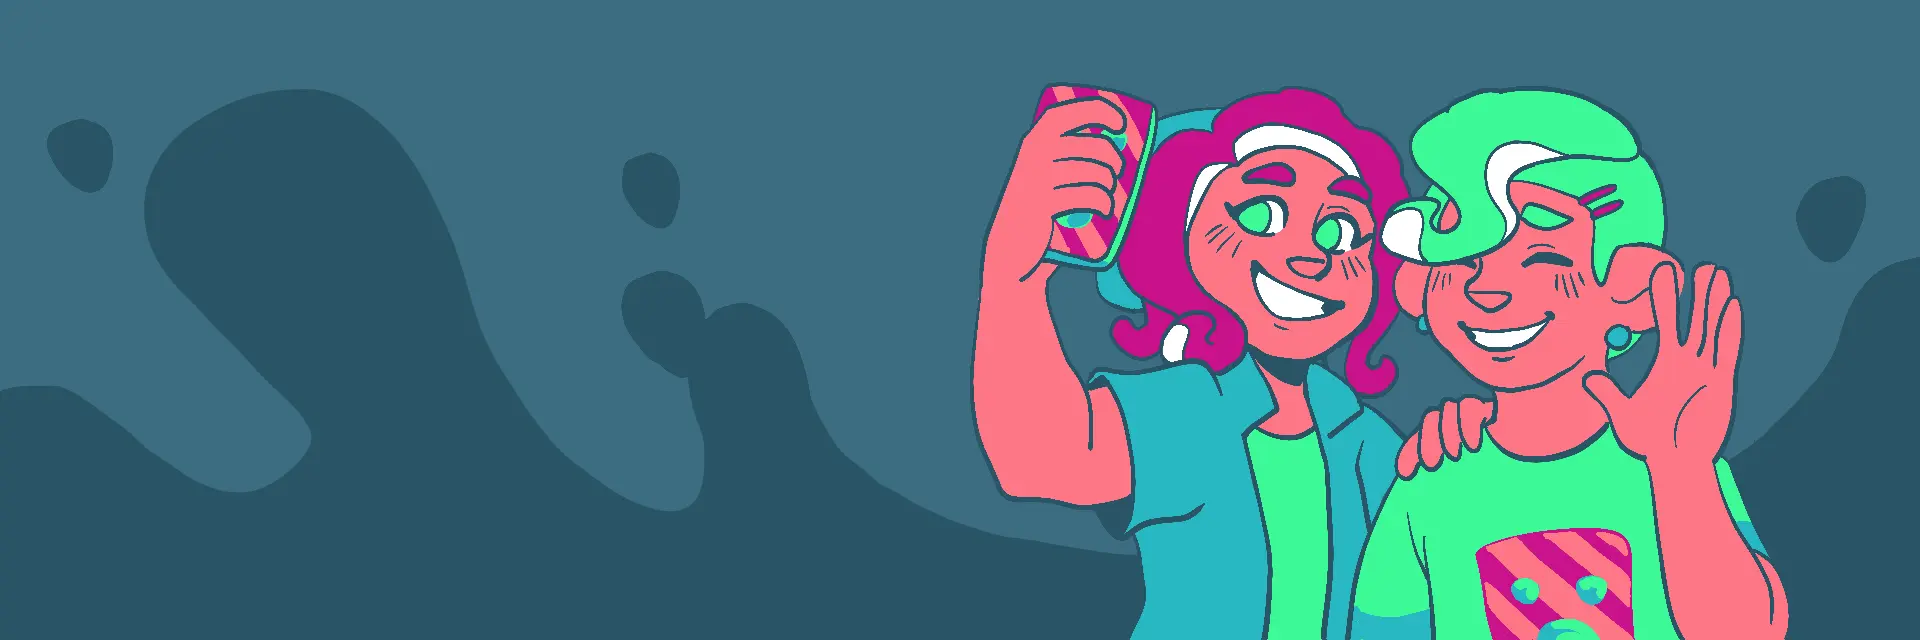
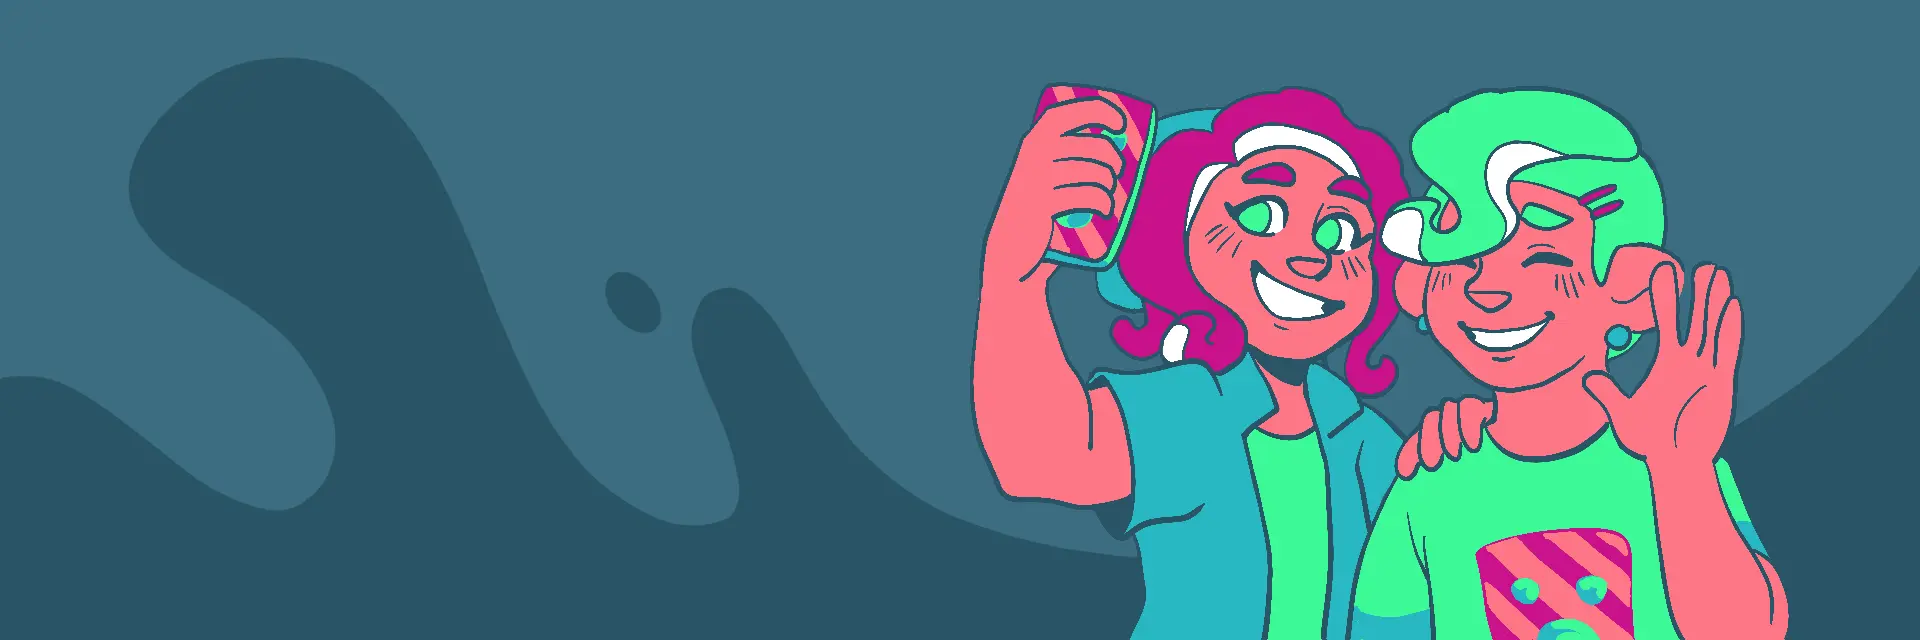
Complete idtga page

diff --git a/src/pages/idtga/index.js b/src/pages/idtga/index.js
@@ -6,7 +6,12 @@ import * as Collapsible from "@radix-ui/react-collapsible"
 import useTourney from "src/app/useTourney"
 import Layout from "src/components/Layout"
 import logo from "src/static/idtga.svg"
+import skater from "src/static/skater.webp"
+import promoInvite from "src/static/promo_invite.webp"
+import promoBlaster from "src/static/promo_blaster.webp"
+import promoFriends from "src/static/promo_friends.webp"
 import InfoMdx from "./info.mdx"
+import { AnimationOnScroll } from "react-animation-on-scroll"
 
 const Idtga = () => (
   <Layout helmet={{ title: "IDTGA" }}>
@@ -25,6 +30,46 @@ const Idtga = () => (
         <TourneyCard />
       </div>
     </div>
+    <div className="relative flex flex-col md:flex-row">
+      <div className="ml-auto max-w-[calc(72rem+((100vw-72rem)/2))] pt-16 pl-5">
+        <img src={skater} />
+      </div>
+      <div className="mx-auto flex max-w-6xl md:absolute md:inset-0">
+        <div className="md:flex-1"></div>
+        <div className="flex-[2_2_0%]">
+          <div className="flex max-w-3xl flex-col gap-1.5 p-12 md:p-16">
+            <h2 className="text-xl font-medium uppercase tracking-wider text-otd-slate-500 dark:text-otd-slate-300">
+              About the tournament
+            </h2>
+            <p className="text-2xl font-semibold sm:text-3xl">
+              Our flagship <i>solo registration</i> tournament.
+            </p>
+            <p className="text-2xl text-slate-600 dark:text-slate-300 sm:text-3xl">
+              Focused on creating balanced teams, and being accessible to
+              everyone.
+            </p>
+          </div>
+        </div>
+      </div>
+    </div>
+    <div className="my-12 flex flex-col items-center">
+      <Blurb
+        heading="No team, no problem"
+        desc="Whether you are brand new to the scene, or a skilled free agent. We make it always accessible to gain competitive experience."
+        src={promoInvite}
+      />
+      <Blurb
+        heading="Put yourself out there"
+        desc="Test your chemistry with different folks, and show the scene what you're made of. You might just find your new teammates."
+        src={promoBlaster}
+        className="sm:!flex-row-reverse"
+      />
+      <Blurb
+        heading="Have some fun"
+        desc="Got an open weekend? Meet new people, make new friends, and just have a really great time."
+        src={promoFriends}
+      />
+    </div>
   </Layout>
 )
 
@@ -42,8 +87,8 @@ const TourneyCard = () => {
       .join(" ")
 
   return (
-    <div className="bg-default flex w-full flex-col items-stretch sm:max-w-lg sm:rounded-xl sm:shadow-xl">
-      <div className="bg-slate-200 px-8 py-8 dark:bg-slate-800 sm:rounded-t-xl sm:px-12">
+    <div className="bg-default flex w-full flex-col items-stretch rounded-t-xl sm:max-w-lg sm:rounded-xl sm:shadow-xl">
+      <div className="rounded-t-xl bg-slate-200 px-8 py-8 dark:bg-slate-800">
         <h2 className="text-center text-xl font-semibold">
           {tourney.data ? (
             tourney.data.smashgg.name
@@ -52,7 +97,8 @@ const TourneyCard = () => {
           )}
         </h2>
       </div>
-      <div className="mx-auto flex max-w-lg flex-col items-stretch gap-8 px-8 py-8 sm:px-12">
+      <div className="mx-auto flex w-full max-w-lg flex-col items-stretch gap-8 px-8 py-8">
+        {tourney.data && <TourneyStatus data={tourney.data} />}
         <div className="flex flex-col items-stretch gap-2">
           <CardInfo
             icon={
@@ -93,30 +139,81 @@ const TourneyCard = () => {
           </CardInfo>
         </div>
         <Details />
-        <div>
-          <div className="flex flex-wrap items-center justify-between gap-4 sm:rounded-b-xl">
-            <Link to="/signup" className="rounded-lg">
-              <button
-                disabled={!(tourney.data?.hasEnded() === false)}
-                className="rounded-lg bg-otd-cyan-200 py-2.5 px-7 text-lg font-medium hover:enabled:bg-otd-cyan-300 disabled:opacity-50 disabled:grayscale-[50%] dark:bg-otd-cyan-700 hover:enabled:dark:bg-otd-cyan-600"
-              >
-                {tourney.data?.hasClosed() && !tourney.data?.hasEnded()
-                  ? "Signup as a sub!"
-                  : "Signup!"}
-              </button>
-            </Link>
-            <Link to="rules">
-              <button className="rounded-lg bg-slate-200 py-2.5 px-7 text-lg font-medium hover:bg-slate-300 dark:bg-slate-800 dark:hover:bg-slate-700">
-                Rules
-              </button>
-            </Link>
-          </div>
-          <div className="mt-3 text-sm text-slate-400 dark:text-slate-500">
-            Times are listed in your timezone, see the rules for the schedule
-            and format.
-          </div>
+        <div className="flex flex-wrap items-center justify-between gap-3 sm:rounded-b-xl">
+          <Link to="/signup" className="rounded-lg">
+            <button
+              disabled={!(tourney.data?.hasEnded() === false)}
+              className="rounded-lg bg-otd-cyan-200 py-2 px-6 text-lg font-medium hover:enabled:bg-otd-cyan-300 disabled:opacity-50 disabled:grayscale-[50%] dark:bg-otd-cyan-700 hover:enabled:dark:bg-otd-cyan-600"
+            >
+              {tourney.data?.hasClosed() && !tourney.data?.hasEnded()
+                ? "Signup as a sub!"
+                : "Signup!"}
+            </button>
+          </Link>
+          <Link to="rules">
+            <button className="rounded-lg bg-slate-200 py-2 px-6 text-lg font-medium hover:bg-slate-300 dark:bg-slate-800 dark:hover:bg-slate-700">
+              Rules
+            </button>
+          </Link>
+          <p className="text-sm text-slate-500">
+            Times are listed in your timezone, see rules for format and
+            schedule.
+          </p>
         </div>
       </div>
+      <div className="h-2 w-full rounded-b-xl border-b-2 border-slate-300 dark:border-slate-600 sm:hidden" />
+    </div>
+  )
+}
+
+const TourneyStatus = ({ data }) => {
+  let props = {
+    color:
+      "bg-green-600/20 text-green-700 dark:bg-green-400/20 dark:text-green-400",
+    underline:
+      "decoration-green-700/50 dark:decoration-green-400/50 hover:decoration-green-700 hover:dark:decoration-green-400",
+    message: "Registration is currently open!",
+  }
+  if (data.hasClosed()) {
+    props = {
+      color:
+        "bg-lime-600/20 text-lime-700 dark:bg-lime-400/20 dark:text-lime-400",
+      underline:
+        "decoration-lime-700/50 dark:decoration-lime-400/50 hover:decoration-lime-700 hover:dark:decoration-lime-400",
+      message: "Signups have closed, but you can still register as a sub!",
+    }
+  }
+  if (!data.hasEnded()) {
+    props = {
+      color: "bg-red-600/20 text-red-700 dark:bg-red-400/20 dark:text-red-400",
+      underline:
+        "decoration-red-700/5k0 dark:decoration-red-400/50 hover:decoration-red-700 hover:dark:decoration-red-400",
+      message: "This season has concluded, thanks for playing!",
+    }
+  }
+
+  return (
+    <div
+      className={clsx(
+        "flex items-center gap-4 rounded-lg p-4 font-medium",
+        props.color
+      )}
+    >
+      <svg
+        xmlns="http://www.w3.org/2000/svg"
+        fill="none"
+        viewBox="0 0 24 24"
+        strokeWidth={1.5}
+        stroke="currentColor"
+        className="h-6 w-6 flex-shrink-0"
+      >
+        <path
+          strokeLinecap="round"
+          strokeLinejoin="round"
+          d="M9.348 14.651a3.75 3.75 0 010-5.303m5.304 0a3.75 3.75 0 010 5.303m-7.425 2.122a6.75 6.75 0 010-9.546m9.546 0a6.75 6.75 0 010 9.546M5.106 18.894c-3.808-3.808-3.808-9.98 0-13.789m13.788 0c3.808 3.808 3.808 9.981 0 13.79M12 12h.008v.007H12V12zm.375 0a.375.375 0 11-.75 0 .375.375 0 01.75 0z"
+        />
+      </svg>
+      {props.message}
     </div>
   )
 }
@@ -201,5 +298,30 @@ const Details = () => {
     </Collapsible.Root>
   )
 }
+
+const Blurb = ({ heading, desc, src, className }) => (
+  <AnimationOnScroll
+    animateOnce={true}
+    animateIn="animate-in fade-in slide-in-from-bottom-12"
+    duration={0.5}
+  >
+    <div
+      className={clsx(
+        "flex max-w-6xl flex-col-reverse justify-between p-12 sm:flex-row sm:items-center sm:gap-0 sm:p-0",
+        className
+      )}
+    >
+      <div className="flex-1 sm:p-12">
+        <h3 className="mb-2 text-2xl font-medium md:text-3xl">{heading}</h3>
+        <p className="text-xl text-slate-600 dark:text-slate-300 md:text-2xl">
+          {desc}
+        </p>
+      </div>
+      <div className="flex-1">
+        <img src={src} className="w-64 sm:w-auto" />
+      </div>
+    </div>
+  </AnimationOnScroll>
+)
 
 export default Idtga

diff --git a/src/pages/index.js b/src/pages/index.js
@@ -2,6 +2,7 @@ import React from "react"
 import { Link, useStaticQuery, graphql } from "gatsby"
 import { StaticImage } from "gatsby-plugin-image"
 import Layout, { DiscordSvg } from "src/components/Layout"
+import Waves from "src/components/Waves"
 import hero from "src/static/hero.webp"
 import useTourney from "src/app/useTourney"
 import logo from "src/static/logo.svg"
@@ -30,7 +31,12 @@ const Index = () => (
         </div>
       </div>
       <div className="w-full overflow-hidden">
-        <Waves className="ml-[50%] w-full min-w-[1152px] translate-y-[1px] translate-x-[-50%]" />
+        <Waves
+          fill={[
+            "text-slate-100 dark:text-slate-850",
+            "text-slate-50 dark:text-slate-800",
+          ]}
+        />
       </div>
     </div>
     <div className="bg-slate-50 px-6 py-12 dark:bg-slate-800 sm:px-12">
@@ -105,9 +111,9 @@ const Index = () => (
         duration={0.5}
       >
         <div className="mx-auto flex max-w-5xl flex-col sm:flex-row sm:items-center sm:gap-12 lg:gap-24">
-          <div>
+          <div className="py-2">
             <h2 className="text-3xl font-medium sm:text-4xl">Ready to play?</h2>
-            <p className="pt-2 pb-4 text-xl text-slate-700 dark:text-slate-300 sm:text-2xl">
+            <p className="pt-2 text-xl text-slate-700 dark:text-slate-300 sm:text-2xl">
               Sign up with your Discord account, set up your profile, and get
               ready for your the next tournament!
             </p>
@@ -178,35 +184,6 @@ const Hero = () => {
       </div>
       <div className="lg:flex-1" />
     </div>
-  )
-}
-
-const Waves = ({ className }) => {
-  return (
-    <svg
-      xmlnsXlink="http://www.w3.org/1999/xlink"
-      xmlns="http://www.w3.org/2000/svg"
-      viewBox="0 0 900 50"
-      version="1.1"
-      className={className}
-    >
-      <path
-        d="M0 0.757489L8.30002 2.42396C16.7 4.0147 33.3001 7.34764 50.0001 13.4833C66.7002 19.6947 83.3002 28.7846 100 32.9508C116.7 37.117 133.3 36.3595 150 30.5269C166.7 24.7699 183.3 13.862 200 8.86263C216.701 3.78745 233.301 4.54494 250.001 10.7563C266.701 16.892 283.301 28.5573 300.001 29.3906C316.701 30.2995 333.301 20.4522 350.001 17.5737C366.701 14.6195 383.301 18.71 400.001 22.1944C416.701 25.7546 425.818 32.9499 444.436 32.9499C463.055 32.9498 468.315 27 484.446 27C500.576 26.9999 514.229 43.9998 531.456 43.9998C562.466 43.9997 583.301 17.195 600.001 14.5438C616.702 11.8926 633.301 17.6495 650.002 23.3306C666.702 29.0118 683.301 34.6173 700.001 31.2085C716.701 27.7998 733.302 16.4371 750.002 14.5434C766.702 12.6497 783.302 21.8153 800.002 23.3303C816.702 24.8453 833.302 10.3761 850.002 10.7548C866.702 11.1336 900.002 14.5431 900.002 14.5431L900.002 0L891.702 0C883.302 0 866.702 0 850.002 0C833.302 0 816.702 0 800.002 0C783.302 0 766.702 0 750.002 0C733.302 0 716.701 0 700.001 0C683.301 0 666.702 0 650.002 0C633.301 0 616.702 0 600.001 0C583.301 0 566.702 0 550.001 0C533.301 0 516.701 0 500.001 0C483.301 0 466.701 0 450.001 0C433.301 0 416.701 0 400.001 0C383.301 0 366.701 0 350.001 0C333.301 0 316.701 0 300.001 0C283.301 0 266.701 0 250.001 0C233.301 0 216.701 0 200 0C183.3 0 166.7 0 150 0C133.3 0 116.7 0 100 0C83.3002 0 66.7002 0 50.0001 0C33.3001 0 16.7 0 8.30002 0L0 0L0 0.757489L0 0.757489Z"
-        transform="matrix(-1 -2.5351817E-06 2.5351817E-06 -1 900.00476 44.00208)"
-        fill="currentColor"
-        className="text-slate-100 dark:text-slate-850"
-        fillRule="evenodd"
-        stroke="none"
-      />
-      <path
-        d="M6.10352e-05 21C6.10352e-05 21 10.3124 24.4723 35.5 24.4723C60.6876 24.4722 111.069 8.50087 137 8.5008C162.931 8.50074 176.781 20.0224 200 20.0224C223.22 20.0223 233.301 11.4262 250 11.6284C266.701 11.8306 283.301 12.4373 300.001 16.9876C316.701 21.5378 333.301 30.0316 350.001 31.6494C366.701 33.3684 383.301 28.3126 400.001 26.2903C416.701 24.2679 441.8 25.2791 458.5 23.5601C475.2 21.9423 483.301 17.4931 500.001 14.6619C516.701 11.8306 533.301 10.415 550.001 12.6396C566.701 14.8641 583.301 23.3574 600.001 26.2898C616.701 29.1211 633.301 29.1211 650.001 28.3121C666.702 27.4021 683.301 22.9534 700.001 20.0211C716.702 17.1898 733.302 13.1451 750.002 11.4262C766.702 9.80829 783.302 10.415 800.001 13.4485C816.701 16.482 848.929 37.2367 900.001 28.8433C900.001 19.1519 900.001 0 900.001 0L891.702 0C883.302 0 866.702 0 850.002 0C833.302 0 816.701 0 800.001 0C783.302 0 766.702 0 750.002 0C733.302 0 716.702 0 700.001 0C683.301 0 666.702 0 650.001 0C633.301 0 616.701 0 600.001 0C583.301 0 566.701 0 550.001 0C533.301 0 516.701 0 500.001 0C483.301 0 466.701 0 450.001 0C433.301 0 416.701 0 400.001 0C383.301 0 366.701 0 350.001 0C333.301 0 316.701 0 300.001 0C283.301 0 266.701 0 250 0C233.301 0 216.701 0 200 0C183.3 0 166.7 0 150 0C133.3 0 116.7 0 100 0C83.3002 0 66.7002 0 50.0001 0C33.3001 0 16.7 0 8.30001 0L0 0L6.10352e-05 21Z"
-        transform="matrix(-1 -2.5351817E-06 2.5351817E-06 -1 900.00134 50.00099)"
-        fill="currentColor"
-        className="text-slate-50 dark:text-slate-800"
-        fillRule="evenodd"
-        stroke="none"
-      />
-    </svg>
   )
 }
 

diff --git a/src/components/Waves.js b/src/components/Waves.js
@@ -1,0 +1,36 @@
+import React from "react"
+import clsx from "clsx"
+
+const Waves = ({ fill, className }) => {
+  return (
+    <svg
+      xmlnsXlink="http://www.w3.org/1999/xlink"
+      xmlns="http://www.w3.org/2000/svg"
+      viewBox="0 0 900 50"
+      version="1.1"
+      className={clsx(
+        "ml-[50%] w-full min-w-[1152px] translate-y-[1px] translate-x-[-50%]",
+        className
+      )}
+    >
+      <path
+        d="M0 0.757489L8.30002 2.42396C16.7 4.0147 33.3001 7.34764 50.0001 13.4833C66.7002 19.6947 83.3002 28.7846 100 32.9508C116.7 37.117 133.3 36.3595 150 30.5269C166.7 24.7699 183.3 13.862 200 8.86263C216.701 3.78745 233.301 4.54494 250.001 10.7563C266.701 16.892 283.301 28.5573 300.001 29.3906C316.701 30.2995 333.301 20.4522 350.001 17.5737C366.701 14.6195 383.301 18.71 400.001 22.1944C416.701 25.7546 425.818 32.9499 444.436 32.9499C463.055 32.9498 468.315 27 484.446 27C500.576 26.9999 514.229 43.9998 531.456 43.9998C562.466 43.9997 583.301 17.195 600.001 14.5438C616.702 11.8926 633.301 17.6495 650.002 23.3306C666.702 29.0118 683.301 34.6173 700.001 31.2085C716.701 27.7998 733.302 16.4371 750.002 14.5434C766.702 12.6497 783.302 21.8153 800.002 23.3303C816.702 24.8453 833.302 10.3761 850.002 10.7548C866.702 11.1336 900.002 14.5431 900.002 14.5431L900.002 0L891.702 0C883.302 0 866.702 0 850.002 0C833.302 0 816.702 0 800.002 0C783.302 0 766.702 0 750.002 0C733.302 0 716.701 0 700.001 0C683.301 0 666.702 0 650.002 0C633.301 0 616.702 0 600.001 0C583.301 0 566.702 0 550.001 0C533.301 0 516.701 0 500.001 0C483.301 0 466.701 0 450.001 0C433.301 0 416.701 0 400.001 0C383.301 0 366.701 0 350.001 0C333.301 0 316.701 0 300.001 0C283.301 0 266.701 0 250.001 0C233.301 0 216.701 0 200 0C183.3 0 166.7 0 150 0C133.3 0 116.7 0 100 0C83.3002 0 66.7002 0 50.0001 0C33.3001 0 16.7 0 8.30002 0L0 0L0 0.757489L0 0.757489Z"
+        transform="matrix(-1 -2.5351817E-06 2.5351817E-06 -1 900.00476 44.00208)"
+        fill="currentColor"
+        className={fill[0]}
+        fillRule="evenodd"
+        stroke="none"
+      />
+      <path
+        d="M6.10352e-05 21C6.10352e-05 21 10.3124 24.4723 35.5 24.4723C60.6876 24.4722 111.069 8.50087 137 8.5008C162.931 8.50074 176.781 20.0224 200 20.0224C223.22 20.0223 233.301 11.4262 250 11.6284C266.701 11.8306 283.301 12.4373 300.001 16.9876C316.701 21.5378 333.301 30.0316 350.001 31.6494C366.701 33.3684 383.301 28.3126 400.001 26.2903C416.701 24.2679 441.8 25.2791 458.5 23.5601C475.2 21.9423 483.301 17.4931 500.001 14.6619C516.701 11.8306 533.301 10.415 550.001 12.6396C566.701 14.8641 583.301 23.3574 600.001 26.2898C616.701 29.1211 633.301 29.1211 650.001 28.3121C666.702 27.4021 683.301 22.9534 700.001 20.0211C716.702 17.1898 733.302 13.1451 750.002 11.4262C766.702 9.80829 783.302 10.415 800.001 13.4485C816.701 16.482 848.929 37.2367 900.001 28.8433C900.001 19.1519 900.001 0 900.001 0L891.702 0C883.302 0 866.702 0 850.002 0C833.302 0 816.701 0 800.001 0C783.302 0 766.702 0 750.002 0C733.302 0 716.702 0 700.001 0C683.301 0 666.702 0 650.001 0C633.301 0 616.701 0 600.001 0C583.301 0 566.701 0 550.001 0C533.301 0 516.701 0 500.001 0C483.301 0 466.701 0 450.001 0C433.301 0 416.701 0 400.001 0C383.301 0 366.701 0 350.001 0C333.301 0 316.701 0 300.001 0C283.301 0 266.701 0 250 0C233.301 0 216.701 0 200 0C183.3 0 166.7 0 150 0C133.3 0 116.7 0 100 0C83.3002 0 66.7002 0 50.0001 0C33.3001 0 16.7 0 8.30001 0L0 0L6.10352e-05 21Z"
+        transform="matrix(-1 -2.5351817E-06 2.5351817E-06 -1 900.00134 50.00099)"
+        fill="currentColor"
+        className={fill[1]}
+        fillRule="evenodd"
+        stroke="none"
+      />
+    </svg>
+  )
+}
+
+export default Waves
